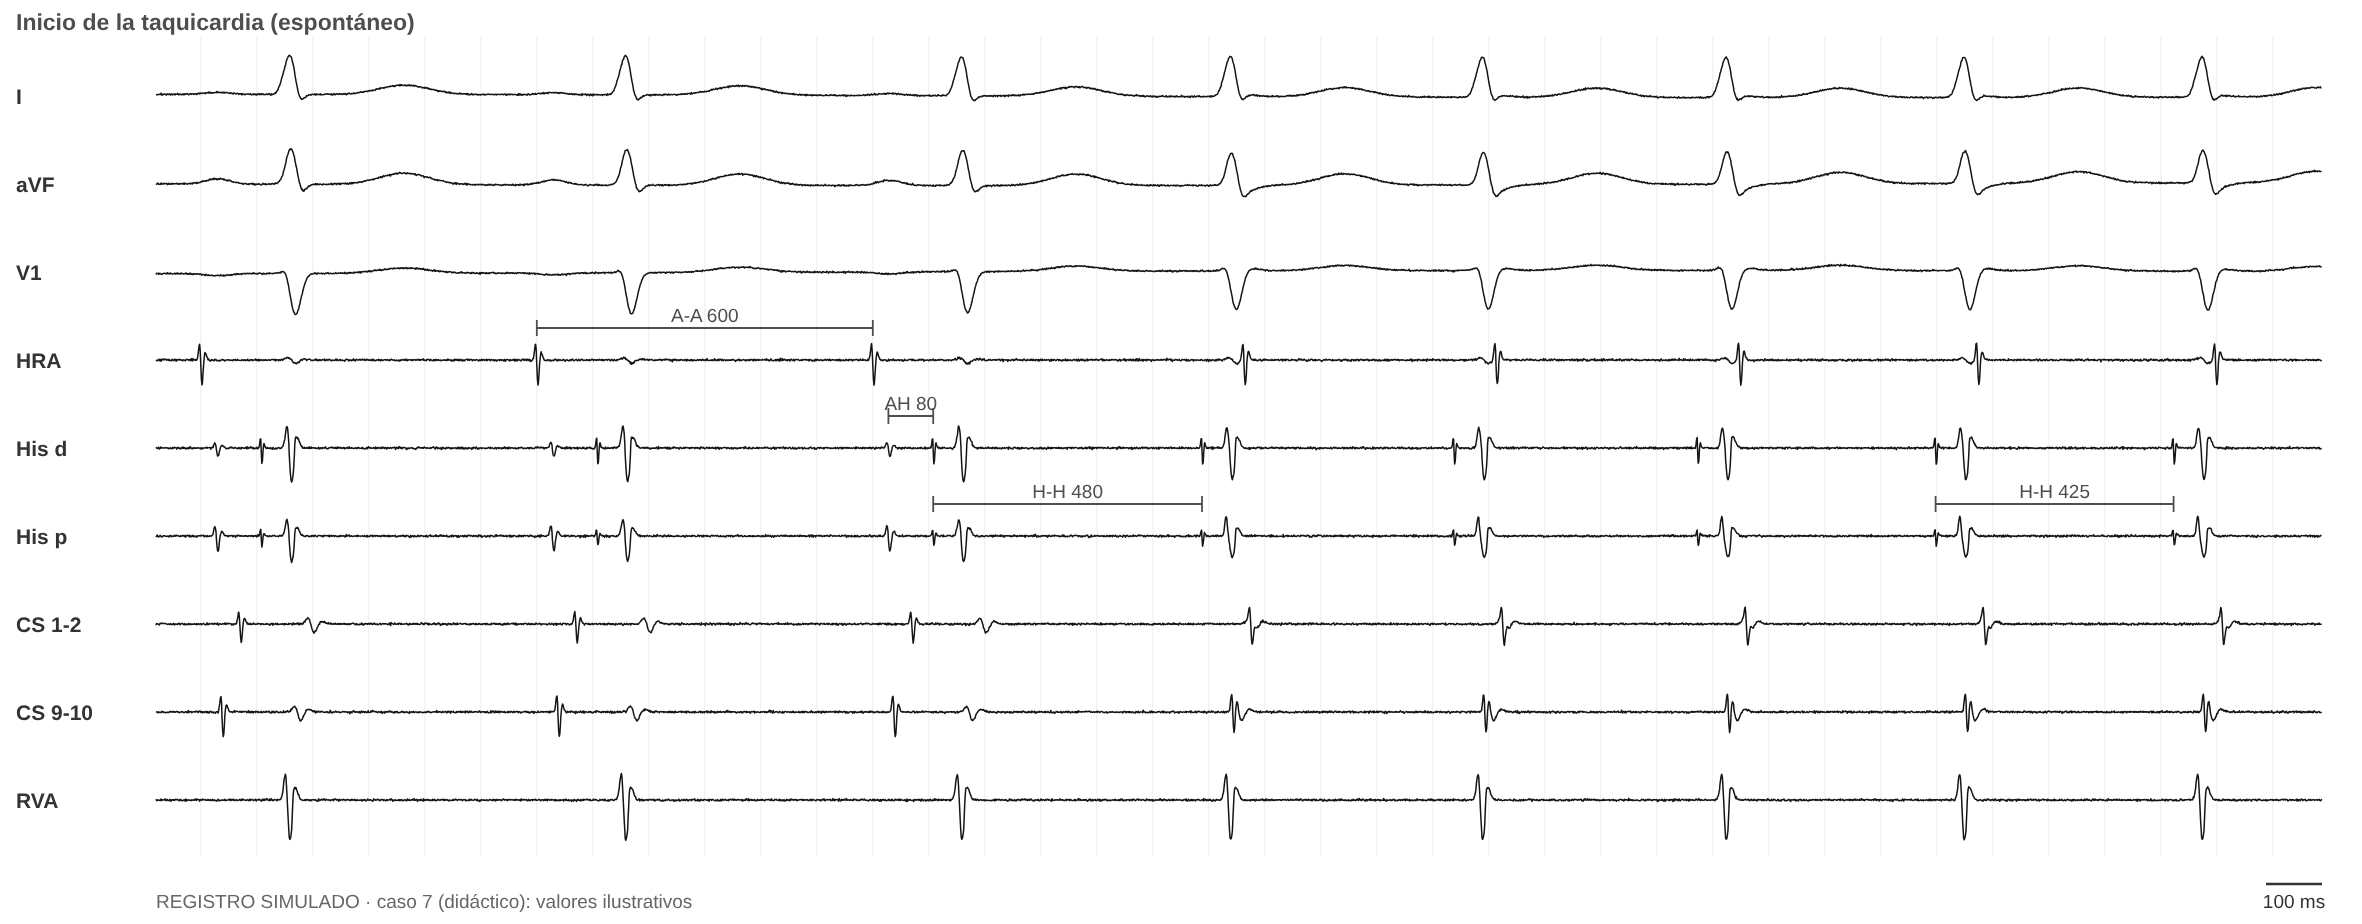
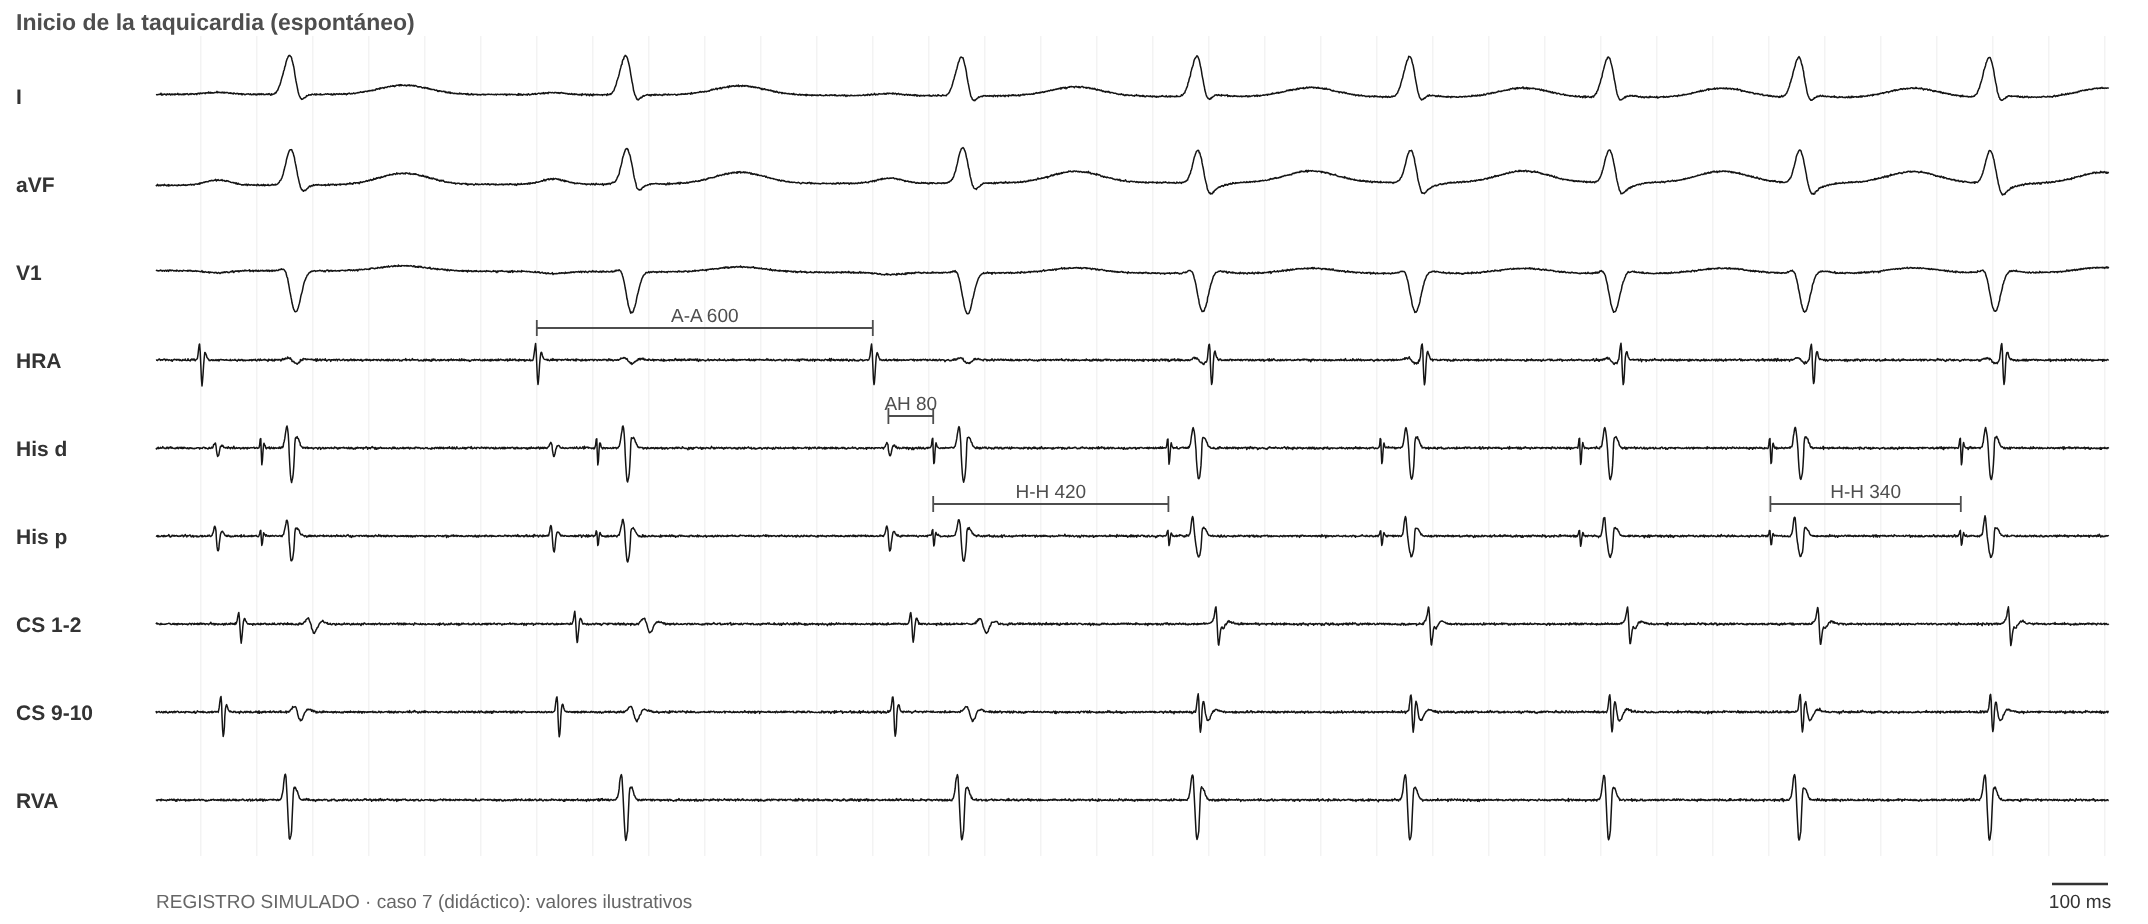
Caso 7 en el formato nuevo con tu ECG de JET con relación 1:1 (LC 340); el ECG con disociación VA queda aparte
Claude-Session: https://claude.ai/code/session_01Pw5rjt62KK5LeJZoEyFiaM

diff --git a/index.html b/index.html
@@ -313,7 +313,7 @@ dialog::backdrop{background:rgba(0,0,0,.45)}
 
 <div id="visor" hidden role="dialog" aria-label="Imagen ampliada"><div class="vbar"><button type="button" class="vm" aria-label="Achicar">−</button><button type="button" class="vp" aria-label="Agrandar">+</button><button type="button" class="vf">Ajustar</button><button type="button" class="vx">✕ Cerrar</button></div><div class="vbox"><img alt=""></div></div>
 <script>
-const APPV = 156;   // igual al número de CACHE_VERSION de sw.js
+const APPV = 157;   // igual al número de CACHE_VERSION de sw.js
 // ===============================================================================================================
 // Referencias. "propia" = artículo del material base; las demás se citan a través de esas revisiones.
 // ===============================================================================================================
@@ -1356,15 +1356,19 @@ const PCASOS = [
       eha: { v: 'EA desde el ostium del SC con el His refractario: el His siguiente sale a su tiempo (H-H 300).', r: 'No modifica el His: esperable en la TRAV (el EA no puede bajar por el nodo refractario).', u: 'util', img: 'figs/sim/prac/p6_eha.png' } },
     dx: ['pjrt'], ex: 'Taquicardia incesante de RP largo con la A más precoz en el ostium del SC. La respuesta A-V y el VA linking excluyen la TA; el ΔAH de 10 ms ubica la aurícula en el circuito y excluye la TRNAV atípica. PPI−LC 71, SA−VA 19, ΔHA −76, ΔVA −15 y el His ortodrómico ponen al ventrículo en el circuito, y la EV con His refractario que retrasa la A demuestra una vía decremental que participa: PJRT. La adenosina, la para-Hisiana y la conducción VA decremental engañan porque la vía es decremental.', refs: ['ho15', 'veen12', 'man95'] },
   { id: 'c7', t: 'Taquicardia con A y V simultáneos', p: 'Niña de 13 meses con taquicardia de QRS angosto casi permanente.',
-    ecg: 'figs/sim/casos/c7_ecg.png', ecgReal: true, basal: 'figs/sim/casos/c7_basal.png', ind: 'figs/sim/casos/c7_ind.png',
-    h: ['TSV de QRS angosto, LC 425 ms', 'Relación 1:1 con A y V simultáneos (VA septal ~0)', 'Activación concéntrica'],
-    m: { vop: { r: 'Respuesta A-H. No distingue la TRNAV de la taquicardia de la unión.', u: 'util' },
-      eha: { r: 'Un EA con His refractario desde el ostium del SC no modifica el His siguiente; un EA precoz desde la AD alta adelanta el His inmediato 38 ms y la taquicardia continúa.', u: 'clave', img: 'figs/sim/prac/p7_eha.png' },
-      aop: { r: 'Durante la sobreestimulación auricular el último A conduce con AH corto (no hay PR > RR) y la taquicardia retoma.', u: 'util' },
-      pre: { r: 'Sin doble vía nodal. La taquicardia empieza sola, sin extraestímulos ni salto del AH, y se acelera en los primeros latidos (calentamiento).', u: 'util' },
-      medidas: { r: 'PPI−LC 175 ms: no distingue la TRNAV de la taquicardia de la unión.' }, ehr: { r: 'No modifica el His.' },
-      ado: { r: 'Enlentece transitoriamente, con bloqueo VA, sin terminar.' }, parahis: { r: 'Respuesta nodal.' } },
-    dx: ['jet'], ex: 'Un EA precoz que adelanta el His inmediato sin cortar la taquicardia no es compatible con TRNAV (dejaría la vía rápida refractaria). Sin doble vía y sin conducción por la vía lenta en la sobreestimulación auricular, el diagnóstico es taquicardia de la unión.', refs: ['padanilam08', 'fan11', 'veen12'] },
+    ecg: 'figs/sim/casos/c7_ecg.jpg', ecgReal: true, basal: 'figs/sim/casos/c7_basal.png', ind: 'figs/sim/casos/c7_ind.png', indt: 'Inicio espontáneo de la taquicardia',
+    h: ['TSV de QRS angosto, LC 340 ms, relación AV 1:1', 'Inicio espontáneo, sin estimulación'],
+    hk: ['A y V simultáneos (VA ≈ 0) con la A más precoz en el His: el mismo patrón que la TRNAV típica. El diferencial es TRNAV típica vs taquicardia de la unión.', 'La taquicardia empieza sola, sin extrasístole ni salto del AH, y se acelera en los primeros latidos (H-H 420 → 340: calentamiento): propio de un foco automático.'],
+    m: { eha: { v: 'EA desde el ostium del SC con el His refractario: el His siguiente sale a su tiempo (H-H 340). EA precoz desde la AD alta: conduce con AH 97 y adelanta el His inmediato 38 ms (H-H 302); la taquicardia sigue (H-H 340).', r: 'Un EA que adelanta el His inmediato sin cortar la taquicardia no es compatible con TRNAV: para llegar al His tendría que bajar por la vía rápida, que forma parte del circuito, y la dejaría refractaria. Es una taquicardia de la unión.', u: 'clave', img: 'figs/sim/prac/p7_eha.png' },
+      aop: { v: 'Estimulando la AD alta a 300 ms cada A conduce con AH 90 (V-V 300). Al cortar, el último A conduce con AH 90 y la taquicardia retoma 340 ms después.', r: 'El último A conduce con AH corto (PR < RR, sin conducción por la vía lenta) y la taquicardia retoma sola: a favor de taquicardia de la unión. En la TRNAV el último A llega al His por la vía lenta (PR > RR).', u: 'clave', img: 'figs/sim/prac/p7_aop.png' },
+      vop: { v: 'Estimulando el ápex del VD a 300 ms las A se aceleran a 300 con la misma secuencia. Al cortar, después de la última A acelerada viene un His (secuencia A-H) y la taquicardia sigue.', r: 'Respuesta A-H (A-V): excluye la TA.', u: 'util', img: 'figs/sim/prac/p7_vop.png' },
+      medidas: { v: 'PPI 515 ms con LC 340 (PPI−LC 175). SA 220 ms con VA 0 (SA−VA 220). HA 45 en la taquicardia y 100 estimulando (ΔHA +55).', r: 'PPI−LC > 115, SA−VA > 85 y ΔHA > −10: el ventrículo no está en el circuito. Excluye la TRAV.', u: 'util', img: 'figs/sim/prac/p7_medidas.png' },
+      diff: { v: 'Encarrilando a 300 ms: SA 220 desde el ápex y SA 250 desde la base del VD. ΔVA (base − ápex) +30 ms.', r: 'ΔVA > 20 ms: no hay una vía septal.', u: 'util', img: 'figs/sim/prac/p7_diff.png' },
+      ehr: { v: 'EV con el His refractario: el His y la A siguientes salen a su tiempo (H-H 340).', r: 'No hay una vía que lleve el V a la A.', u: 'util', img: 'figs/sim/prac/p7_ehr.png' },
+      pre: { v: 'Extraestímulo auricular desde la AD alta: S1-S2 600-300 y 600-290.', r: 'AH 140 → 150 al acortar el S2 10 ms: sin salto, sin doble fisiología nodal y sin eco.', u: 'util', img: 'figs/sim/prac/p7_pre.png' },
+      ado: { v: 'La taquicardia se enlentece (H-H 420 y 470) con V sin A (las A sinusales van disociadas) y vuelve a 340 con A y V simultáneos, sin terminar.', r: 'Sigue con bloqueo VA y no termina: el mecanismo no necesita la aurícula; a favor de taquicardia de la unión.', u: 'util', img: 'figs/sim/prac/p7_ado.png' },
+      parahis: { v: 'En sinusal, con captura del His: SA 85 y QRS 95. Solo V: SA 135 y QRS 150. Misma secuencia auricular.', r: 'Respuesta nodal: no hay una vía septal.', u: 'util', img: 'figs/sim/prac/p7_parahis.png' } },
+    dx: ['jet'], ex: 'Con A y V simultáneos el diferencial es TRNAV típica vs taquicardia de la unión. El inicio espontáneo con calentamiento, sin salto del AH ni doble fisiología nodal, orienta a un foco. El EA precoz que adelanta el His inmediato sin cortar la taquicardia no es compatible con TRNAV, y en la sobreestimulación auricular el último A conduce sin pasar por la vía lenta: taquicardia de la unión. Las medidas del encarrilamiento ventricular solo excluyen la TRAV.', refs: ['padanilam08', 'fan11', 'veen12'] },
   { id: 'c8', allm: true, t: 'Taquicardia de QRS ancho que terminó con verapamilo', p: 'Varón de 17 años, corazón sano. En la guardia, una taquicardia de QRS ancho terminó con verapamilo.',
     ecg: 'figs/sim/casos/c8_ecg.jpg', ecgReal: true, ecg2: 'figs/sim/casos/c8_ecg_sin.jpg', basal: 'figs/sim/casos/c8_basal.png', ind: 'figs/sim/casos/c8_ind.png',
     h: ['Taquicardia de QRS 140 ms, BRD con eje superior, LC 420 ms', 'Disociación AV (más V que A)', 'His retrógrado 15 ms después del inicio del QRS'],

diff --git a/sw.js b/sw.js
@@ -1,6 +1,6 @@
 // Permite instalar la app y abrirla sin conexión. Primero la red (siempre lo último publicado); si no hay, la copia.
 // Si cambiás un archivo, subí CACHE_VERSION.
-const CACHE_VERSION = 'mef-v156';
+const CACHE_VERSION = 'mef-v157';
 const ARCHIVOS = ['./', './index.html', './manifest.json', './iconos/icon-192.png', './iconos/icon-512.png'];
 self.addEventListener('install', e => e.waitUntil(caches.open(CACHE_VERSION).then(c => c.addAll(ARCHIVOS)).then(() => self.skipWaiting())));
 self.addEventListener('activate', e => e.waitUntil(caches.keys().then(ks => Promise.all(ks.filter(k => k !== CACHE_VERSION).map(k => caches.delete(k)))).then(() => self.clients.claim())));

diff --git a/herramientas/simulador/cases6.py b/herramientas/simulador/cases6.py
@@ -719,6 +719,130 @@ S['p6_eha'] = dict(win=(-100, vs[-1] + 250), pxms=0.27, title='EA con His refrac
     cal=[(hs[2], hs[3], 'His d', f'H-H {LC6}'), (hs[3], hs[4], 'His d', f'H-H {LC6}')],
     marks=[(apb, 'V1', 'EA')])
 
+# =====================================================================================================
+# Caso 7 (taquicardia de la unión; LC 340 como el ECG real). El foco está en el His: H → V 45 y H → A 45 (A y V simultáneos).
+SRC7 = 'caso 7 (didáctico): LC 340 como el caso; el resto, ilustrativo'
+LC7, SC7, SA7, PPI7, HAp7 = 340, 300, 220, 515, 100
+
+
+def vop7(title, med):
+    svt = [i * LC7 for i in range(3)]
+    sp = [svt[-1] + 260 + SC7 * k for k in range(6)]
+    A = [v for v in svt] + [s + SA7 for s in sp]
+    ret = sp[-1] + PPI7
+    after = [ret, ret + LC7]
+    cal = [(svt[0], svt[1], 'RVA', f'LC {LC7}'), (sp[-2], sp[-1], 'RVA', f'S-S {SC7}'), (A[-3] + 2, A[-2] + 2, 'HRA', f'A-A {SC7}'),
+           (sp[-1], A[-1] + 2, 'CS 9-10', f'SA {SA7}'), (sp[-1], ret + 2, 'RVA', f'PPI {PPI7}')]
+    marks = [(A[-1], 'His p', 'A'), (ret - HV, 'His p', 'H')]
+    if med:
+        cal = [c for c in cal if not c[3].startswith(('S-S', 'A-A'))]
+        cal += [(svt[1] - HV, svt[1], 'His d', f'HA {HV}'), (A[-1] - HAp7, A[-1], 'His d', f'HA {HAp7}')]
+        marks = [(sp[-1] + 260, 'I', f'SA − VA = {SA7} − 0 = {SA7} ms'), (sp[-1] + 260, 'aVF', f'PPI − LC = {PPI7} − {LC7} = {PPI7 - LC7} ms'),
+                 (sp[-1] + 260, 'V1', f'ΔHA = {HAp7} − {HV} = +{HAp7 - HV} ms')]
+    return dict(win=(-80, after[-1] + 220), pxms=0.25, title=title, channels=CH6, src=SRC7,
+        beats=[(v, 'n') for v in svt + after] + [(s, 'pa') for s in sp], spikes=sp,
+        atr=[(a, 'conc_his', -1) for a in A + after], h_ante=[v - HV for v in svt + after], h_retro=[s + SA7 - HAp7 for s in sp],
+        cal=cal, marks=marks)
+
+
+S['p7_vop'] = vop7('Sobreestimulación ventricular desde el ápex del VD a 300 ms', False)
+S['p7_medidas'] = vop7('Medidas sobre la sobreestimulación ventricular (ápex del VD a 300 ms): PPI, SA y HA', True)
+
+
+def diff7(sa, typ, title):
+    svt = [0, LC7]
+    sp = [600 + SC7 * k for k in range(6)]
+    A = svt + [s + sa for s in sp]
+    ret = sp[-1] + PPI7 + (sa - SA7)
+    return dict(win=(-80, ret + LC7 + 220), pxms=0.24, channels=CH6, title=title, spikes=sp, pace_ch='RVA', src=SRC7,
+        beats=[(v, 'n') for v in svt] + [(s, typ) for s in sp] + [(ret, 'n'), (ret + LC7, 'n')],
+        atr=[(a, 'conc_his', -1) for a in A] + [(ret, 'conc_his', -1), (ret + LC7, 'conc_his', -1)],
+        h_ante=[v - HV for v in svt] + [ret - HV, ret + LC7 - HV], h_retro=[s + sa - HAp7 for s in sp],
+        cal=[(sp[-1], A[-1] + 2, 'CS 9-10', f'SA {sa}'), (svt[0], svt[1], 'RVA', f'LC {LC7}')])
+
+
+S['p7_diff_a'] = diff7(220, 'pa', 'A. Encarrilamiento desde el ápex del VD (300 ms)')
+S['p7_diff_b'] = diff7(250, 'pb', 'B. Encarrilamiento desde la base del VD (300 ms)')
+
+# EV con His refractario: el His y la A siguientes no cambian.
+k = 3
+vs = [i * LC7 for i in range(k)]
+h_exp = k * LC7 - HV
+after = [k * LC7 + LC7, k * LC7 + 2 * LC7]
+A = vs + [k * LC7] + after
+S['p7_ehr'] = dict(win=(-80, after[-1] + 200), pxms=0.30, title='EV con His refractario durante la taquicardia', channels=CH6, src=SRC7,
+    spikes=[h_exp], pace_ch='RVA', beats=[(v, 'n') for v in vs] + [(h_exp, 'pa')] + [(v, 'n') for v in after],
+    atr=[(a, 'conc_his', -1) for a in A], h_ante=[v - HV for v in vs] + [h_exp] + [v - HV for v in after],
+    cal=[(vs[1] - HV, vs[2] - HV, 'His d', f'H-H {LC7}'), (vs[2] - HV, h_exp, 'His d', f'H-H {LC7}'), (h_exp, after[0] - HV, 'His d', f'H-H {LC7}')],
+    marks=[(h_exp, 'V1', 'EV'), (h_exp, 'His p', 'H')])
+
+# EA con His refractario (ostium del SC): el His siguiente no cambia.  EA precoz (AD alta): adelanta el His inmediato 38 ms y la taquicardia sigue.
+hs = [i * LC7 - HV for i in range(7)]
+vs = [h + HV for h in hs]
+apb = hs[4]
+S['p7_eha_a'] = dict(win=(-100, vs[-1] + 250), pxms=0.25, title='A. EA con His refractario desde el ostium del SC', channels=CH6, src=SRC7,
+    beats=[(x, 'n') for x in vs], aspikes=[apb], apace_ch='CS 9-10',
+    atr=[(v, 'conc_his', -1) for k2, v in enumerate(vs) if k2 != 4] + [(apb + 4, 'conc_cs', 1)], h_ante=hs,
+    cal=[(hs[3], hs[4], 'His d', f'H-H {LC7}'), (hs[4], hs[5], 'His d', f'H-H {LC7}')],
+    marks=[(apb, 'V1', 'EA')])
+hs = [i * LC7 - HV for i in range(4)]
+h_adv = 4 * LC7 - HV - 38
+apb = h_adv - 125
+hs += [h_adv, h_adv + LC7, h_adv + 2 * LC7]
+vs = [h + HV for h in hs]
+S['p7_eha_b'] = dict(win=(-100, vs[-1] + 250), pxms=0.25, title='B. EA precoz desde la AD alta', channels=CH6, src=SRC7,
+    beats=[(x, 'n') for x in vs], aspikes=[apb], apace_ch='HRA',
+    atr=[(v, 'conc_his', -1) for k2, v in enumerate(vs) if k2 != 4] + [(apb + 4, 'sinus', 1)], h_ante=hs,
+    cal=[(hs[2], hs[3], 'His d', f'H-H {LC7}'), (hs[3], hs[4], 'His d', f'H-H {hs[4] - hs[3]}'), (hs[4], hs[5], 'His d', f'H-H {LC7}'),
+         (apb, hs[4], 'His p', f'AH {hs[4] - apb - 28}')],
+    marks=[(apb, 'V1', 'EA')])
+
+# Sobreestimulación auricular desde la AD alta a 300: cada A conduce con AH 90; al cortar, el último A conduce con AH 90 (PR < RR)
+# y la taquicardia retoma con H-H 340.
+vs = [0, LC7]
+sp = [vs[-1] + 200 + 300 * k for k in range(6)]
+pv = [s + 28 + 90 + HV for s in sp]
+vs2 = [pv[-1] + LC7, pv[-1] + 2 * LC7]
+S['p7_aop'] = dict(win=(-80, vs2[-1] + 220), pxms=0.24, title='Sobreestimulación auricular desde la AD alta a 300 ms', channels=CH6, src=SRC7,
+    beats=[(v, 'n') for v in vs + pv + vs2], aspikes=sp, apace_ch='HRA',
+    atr=[(a, 'conc_his', -1) for a in vs] + [(s + 5, 'sinus', 1) for s in sp] + [(v, 'conc_his', -1) for v in vs2],
+    h_ante=[v - HV for v in vs + pv + vs2],
+    cal=[(vs[0], vs[1], 'RVA', f'V-V {LC7}'), (sp[-2], sp[-1], 'HRA', 'S-S 300'), (pv[-2], pv[-1], 'RVA', 'V-V 300'),
+         (sp[-1] + 28, pv[-1] - HV, 'His d', 'AH 90'), (pv[-1], vs2[0], 'RVA', f'V-V {LC7}')])
+
+# Estudio basal: extraestímulo auricular sin salto del AH (S2 300 → AH 140; S2 290 → AH 150), sin eco.
+def ea7(s2, ah2, title):
+    sp = [0, 600, 600 + s2]
+    hs = [s + 28 + a for s, a in zip(sp, [80, 80, ah2])]
+    return dict(win=(-80, 1650), pxms=0.40, title=title, channels=CH6, src=SRC7,
+        beats=[(h + HV, 'n') for h in hs], aspikes=sp, apace_ch='HRA', atr=[(s + 5, 'sinus', 1) for s in sp], h_ante=hs,
+        cal=[(sp[1], sp[2], 'HRA', f'S2 {s2}'), (sp[1] + 28, hs[1], 'His d', 'AH 80'), (sp[2] + 28, hs[2], 'His d', f'AH {ah2}')])
+
+
+S['p7_pre_a'] = ea7(300, 140, 'A. Extraestímulo auricular S1-S2 600-300')
+S['p7_pre_b'] = ea7(290, 150, 'B. S2 10 ms más corto: S1-S2 600-290')
+
+# Para-Hisiana en sinusal: SA 85 → 135, misma secuencia.
+sp = [0, 650, 1300, 1950]
+cap = [True, False, True, False]
+S['p7_parahis'] = dict(win=(-80, 2300), pxms=0.32, title='Estimulación para-Hisiana en ritmo sinusal', channels=CH6, src=SRC7,
+    spikes=sp, pace_ch='His p', beats=[(s + HV if c else s, 'n' if c else 'pa') for s, c in zip(sp, cap)],
+    atr=[(s + (85 if c else 135), 'conc_his', -1) for s, c in zip(sp, cap)],
+    cal=[(sp[0], sp[0] + 87, 'His d', 'SA 85'), (sp[1], sp[1] + 137, 'His d', 'SA 135'), (sp[2] + HV, sp[2] + HV + 95, 'RVA', 'QRS 95'), (sp[3], sp[3] + 150, 'RVA', 'QRS 150')],
+    marks=[(sp[0] + 30, 'V1', 'His + V'), (sp[1] + 40, 'V1', 'solo V')])
+
+# Adenosina: se enlentece (H-H 420, 470) con bloqueo VA (A sinusales disociadas) y vuelve a 340 con A y V simultáneos.
+vs = [0, LC7, 2 * LC7]
+for d in (420, 470, 420, 340, 340):
+    vs.append(vs[-1] + d)
+asin = [vs[2] + 250, vs[2] + 250 + 600]
+A = vs[:3] + vs[6:]
+S['p7_ado'] = dict(win=(-80, vs[-1] + 220), pxms=0.22, title='Adenosina IV durante la taquicardia', channels=CH6, src=SRC7,
+    beats=[(v, 'n') for v in vs], atr=[(a, 'conc_his', -1) for a in A] + [(a, 'sinus', 1) for a in asin], h_ante=[v - HV for v in vs],
+    cal=[(vs[0] - HV, vs[1] - HV, 'His d', f'H-H {LC7}'), (vs[2] - HV, vs[3] - HV, 'His d', 'H-H 420'), (vs[3] - HV, vs[4] - HV, 'His d', 'H-H 470'),
+         (vs[6] - HV, vs[7] - HV, 'His d', f'H-H {LC7}')],
+    marks=[(vs[3] + 60, 'aVF', 'V sin A'), (vs[4] + 60, 'aVF', 'V sin A')])
+
 if __name__ == '__main__':
     for k in (sys.argv[3:] or S):
         render(S[k], f'{OUT}/{k}.svg')

diff --git a/herramientas/simulador/cases5.py b/herramientas/simulador/cases5.py
@@ -126,14 +126,14 @@ S['c7_basal'] = basal('caso 7 (didáctico): AH 80, HV 45, ilustrativos', ah=80, 
 # Inicio espontáneo: tres sinusales (A-A 600) y aparecen latidos de la unión que se aceleran (H-H 480, 450, 435, 425).
 a_sin = [0, 600, 1200]
 hs = [a + 28 + 80 for a in a_sin]
-for d in (480, 450, 435, 425, 425):
+for d in (420, 380, 355, 340, 340):
     hs.append(hs[-1] + d)
 vs = [h + HV for h in hs]
 S['c7_ind'] = dict(win=(-80, vs[-1] + 220), pxms=0.28, title='Inicio de la taquicardia (espontáneo)', channels=CH6,
     src='caso 7 (didáctico): valores ilustrativos', beats=[(v, 'n') for v in vs],
     atr=[(a, 'sinus', 1) for a in a_sin] + [(v, 'conc_his', -1) for v in vs[3:]], h_ante=hs,
     cal=[(a_sin[1], a_sin[2], 'HRA', 'A-A 600'), (a_sin[2] + 28, hs[2], 'His d', 'AH 80'),
-         (hs[2], hs[3], 'His p', 'H-H 480'), (hs[6], hs[7], 'His p', 'H-H 425')])
+         (hs[2], hs[3], 'His p', 'H-H 420'), (hs[6], hs[7], 'His p', 'H-H 340')])
 
 # EA durante la taquicardia (LC 425), dos paneles como la ficha:
 # A. EA con His refractario desde el ostium del SC: el His siguiente no cambia.  B. EA precoz desde la AD alta: adelanta el His 38 ms y sigue.
@@ -141,7 +141,7 @@ LC7 = 425
 hs = [i * LC7 - HV for i in range(7)]
 vs = [h + HV for h in hs]
 apb = hs[4]
-S['p7_eha_a'] = dict(win=(-100, vs[-1] + 250), pxms=0.25, title='A. EA con His refractario (ostium del SC)', channels=CH6,
+S['p7old_eha_a'] = dict(win=(-100, vs[-1] + 250), pxms=0.25, title='A. EA con His refractario (ostium del SC)', channels=CH6,
     src='caso 7 (didáctico): valores ilustrativos',
     beats=[(x, 'n') for x in vs], aspikes=[apb], apace_ch='CS 9-10',
     atr=[(v, 'conc_his', -1) for k, v in enumerate(vs) if k != 4] + [(apb + 4, 'conc_cs', 1)], h_ante=hs,
@@ -152,7 +152,7 @@ h_adv = 4 * LC7 - HV - 38
 apb = h_adv - 125
 hs += [h_adv, h_adv + LC7, h_adv + 2 * LC7]
 vs = [h + HV for h in hs]
-S['p7_eha_b'] = dict(win=(-100, vs[-1] + 250), pxms=0.25, title='B. EA precoz (AD alta)', channels=CH6,
+S['p7old_eha_b'] = dict(win=(-100, vs[-1] + 250), pxms=0.25, title='B. EA precoz (AD alta)', channels=CH6,
     src='caso 7 (didáctico): valores ilustrativos',
     beats=[(x, 'n') for x in vs], aspikes=[apb], apace_ch='HRA',
     atr=[(v, 'conc_his', -1) for k, v in enumerate(vs) if k != 4] + [(apb + 4, 'sinus', 1)], h_ante=hs,
